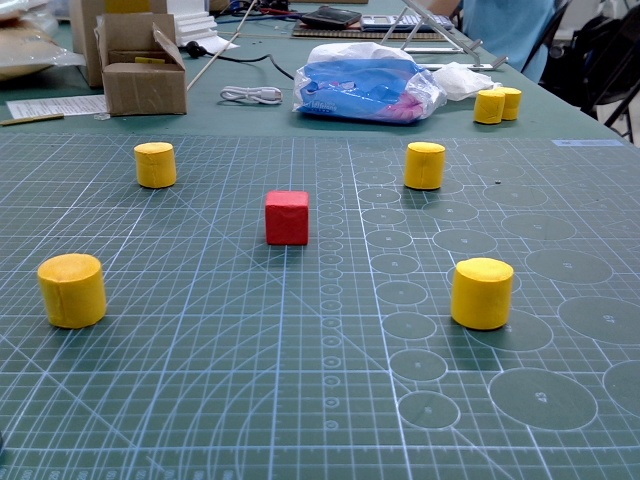
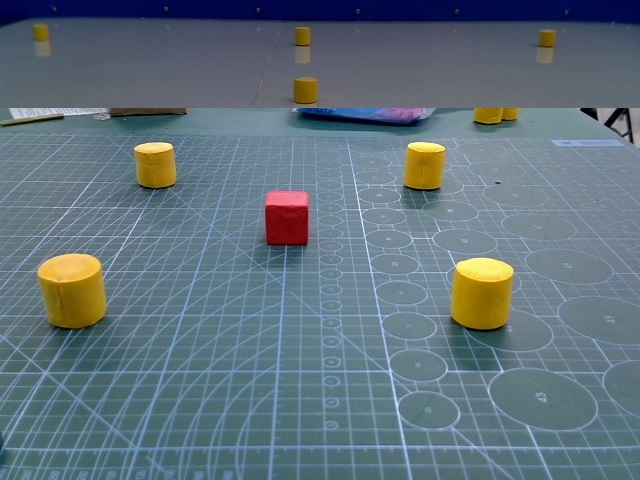
works on camera

Changed region(s): [[0.0, 0.0, 1.0, 0.25]]

diff --git a/src/camera_test.py b/src/camera_test.py
@@ -8,16 +8,17 @@ import cv2
 from algorithm import camera_convert
 from algorithm import find_color
 from communication.camera import Camera
+from algorithm import vision
 
 
 # MODE = "file"
-# MODE = 'adjust'
-MODE = 'camera'
+MODE = 'adjust'
+# MODE = 'camera'
 FORCE_OVERWRITE = True
 GLOBAL_SHOW = True
 MASK_SHOW = True
-READ_DIR = "test4"
-WRITE_DIR = "test5"
+READ_DIR = "hybrid1"
+WRITE_DIR = "test6"
 
 # CAMERA_STATE = camera_convert.CameraState((269, 1, -178), (90 - 29.8, 2.0, 0.2), (62.2, 48.8), (640, 480))
 # CAMERA_STATE = camera_convert.CameraState((286, 2, -197), (90 - 33.3, 2.0, 0.0), (62.2, 55), (640, 480))
@@ -27,9 +28,7 @@ WRITE_DIR = "test5"
 # )
 # (357, 10, -207) [51.7  1.2  1. ]
 # (295, 12, -221) [57.7  1.1  0.3] (np.float64(51.44557864216593), np.float64(51.08994556912829))
-CAMERA_STATE = camera_convert.CameraState(
-    (295, 12, -221), (57.7, 1.1, 0.3), (51.45, 51.09), (640, 480)
-)
+CAMERA_STATE = vision.CAMERA_STATE
 
 SHOW_RED = SHOW_YELLOW = True
 SHOW_WALL = True
@@ -51,7 +50,7 @@ def process(img, show: bool = False):
     )
 
     if show and DRAW_GRID:
-        draw_grid(img, (255, 255, 255, 255), 450, 2000, 50, -1000, 1000, 50)
+        draw_grid(img, (255, 255, 255, 255), 300, 2000, 100, -500, 500, 100)
 
     print()
 

diff --git a/src/algorithm/vision.py b/src/algorithm/vision.py
@@ -8,8 +8,16 @@ except ModuleNotFoundError:
 
     work_path = os.getcwd()
     sys.path.append(f"{work_path}/algorithm")
-    import camera_convert
-    import find_color
+    try:
+        import camera_convert
+        import find_color
+    except ModuleNotFoundError:
+
+        work_path = os.getcwd()
+        sys.path.append(f"{work_path}/../algorithm")
+        import camera_convert
+        import find_color
+
 else:
     ...
 
@@ -19,7 +27,11 @@ CAMERA_STATE = camera_convert.CameraState(
     
     # (295, 12, -221), (57.7, 1.1, 0.3), (51.45, 51.09), (640, 480)
     
-    (295, 12, -221), (57.7, 1.1, 0.3), (51.45, 51.09), (640, 480)
+    # (295, 12, -221), (57.7, 1.1, 0.3), (51.45, 51.09), (640, 480)
+
+    # (84, 4, -243), (59.4, 1.1, -0.1), (51.45, 51.09), (640, 480)
+
+    (78, 13, -164), (69.4, 1., 0.5), (47.66, 33.90), (640, 480)
 )
 
 

diff --git a/src/algorithm/core_visualizer.py b/src/algorithm/core_visualizer.py
@@ -72,13 +72,13 @@ class Visualizer:
                 if event.button == 1:  # left-click
                     self.core.predicted_items[cords] = [
                         self.core.predicted_items.get(cords, (0, 0))[0] + 2,
-                        0,
+                        core.RED,
                         0,
                     ]
                 elif event.button == 3:  # right-click
                     self.core.predicted_items[cords] = [
                         self.core.predicted_items.get(cords, (0, 0))[0] + 3,
-                        1,
+                        core.YELLOW,
                         0,
                     ]
             elif event.type == pygame.KEYDOWN:

diff --git a/src/algorithm/find_color.py b/src/algorithm/find_color.py
@@ -8,7 +8,7 @@ RED = [
 
 YELLOW = [np.array(((15, 150, 50), (35, 255, 255)))]
 
-BLUE = [np.array(((100, 100, 50), (120, 255, 255)))]
+BLUE = [np.array(((100, 100, 25), (125, 255, 255)))]
 
 WHITE = [np.array(((0, 0, 50), (180, 100, 255)))]
 
